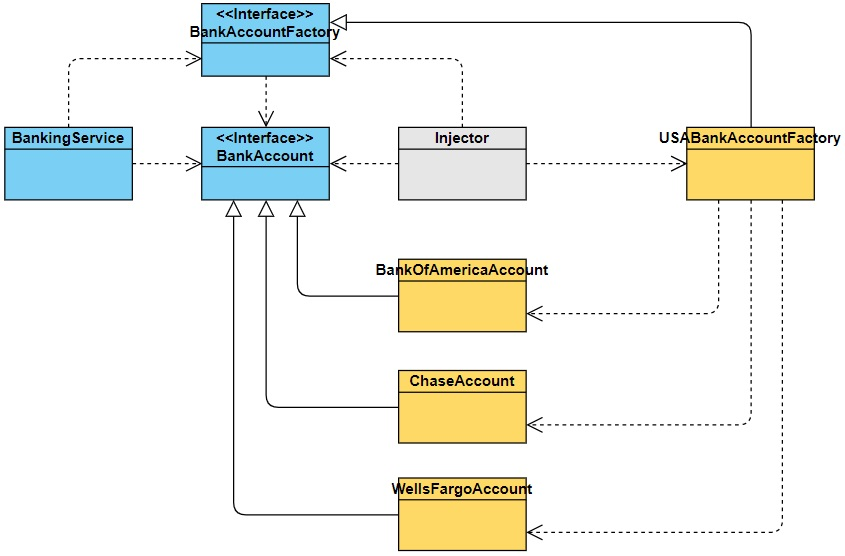
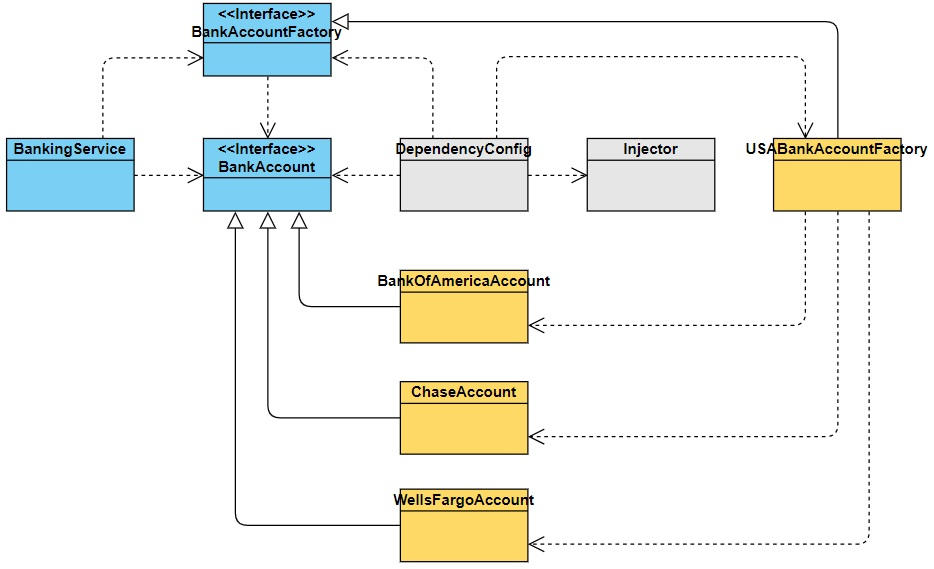
- Adding google analytics - Fixing UML diagram

diff --git a/_posts/2019-07-23-integrating-third-party-modules.md b/_posts/2019-07-23-integrating-third-party-modules.md
@@ -15,13 +15,13 @@ Usually it comes in two forms:
 A third-party software package is composed of library files and data files which are executed by applications locally, and become part of the application's deployable image:
 
 <p align="center">
-  <img style="max-height: 200px; margin: 10px" src="{{ site.baseurl }}/images/p1/application-image.png" alt="application-image"/>
+  <img style="max-height: 200px; max-width: 100%; margin: 10px" src="{{ site.baseurl }}/images/p1/application-image.png" alt="application-image"/>
 </p>
 
 A web-based API (Application Programming Interface) provides a set of functionalities which, when consumed, are executed externally from the application, in another process or in a remote server. The application can consume the web API directly with the assistance of network libraries (A), but more often client side software packages are provided for handling communications between the two parties (B):
 
 <p align="center">
-  <img style="max-height: 200px; margin: 10px" src="{{ site.baseurl }}/images/p1/web-api.png" alt="web-api"/>
+  <img style="max-height: 200px; max-width: 100%; margin: 10px" src="{{ site.baseurl }}/images/p1/web-api.png" alt="web-api"/>
 </p>
 
 The next section will cover the dependency management challenge that arises when integrating third-party modules into applications. 
@@ -120,10 +120,10 @@ public class USABankAccountFactory : BankAccountFactory
 Now the dependency inversion principle kicks in. The interfaces concrete implementations are injected into the application with the help of a dependency injection (DI) framework. The DI framework will incorporate all dependencies into itself, using them to construct application services, and it will be the only external dependency of the application:
 
 <p align="center">
-  <img style="max-height: 500px; margin: 10px" src="{{ site.baseurl }}/images/p1/uml-injection.JPG" alt="uml-injection"/>
+  <img style="max-height: 500px; max-width: 100%; margin: 10px" src="{{ site.baseurl }}/images/p1/uml-injection.JPG" alt="uml-injection"/>
 </p>
 
-Each color in the above class diagram indicates a different section of the whole system. In blue the application's business logic. In dark yellow the interfaces concrete implementations which are dependent on third-party modules. Finally in gray the DI framework and it's configuration classes, omitted for brevity.
+Each color in the above class diagram indicates a different section of the whole system. In blue the application's business logic. In dark yellow the interfaces concrete implementations which are dependent on third-party modules. Finally in grey the DI related classes, one from the DI framework (`Injector`) and the other responsible for configuring the application dependency graph (`DependencyConfig`).
 
 Notice that the application business logic is isolated from external modules, with the single exception of the DI framework. Some may say that the dependency on the DI framework defeats it's very own purpose, but for large applications the benefits largely outweighs this drawback. If one is careful enough to avoid complex DI frameworks and use only what's is strictly required for isolating the application from third-party modules then this self-inflicted dependency should not be a problem at all.
 
